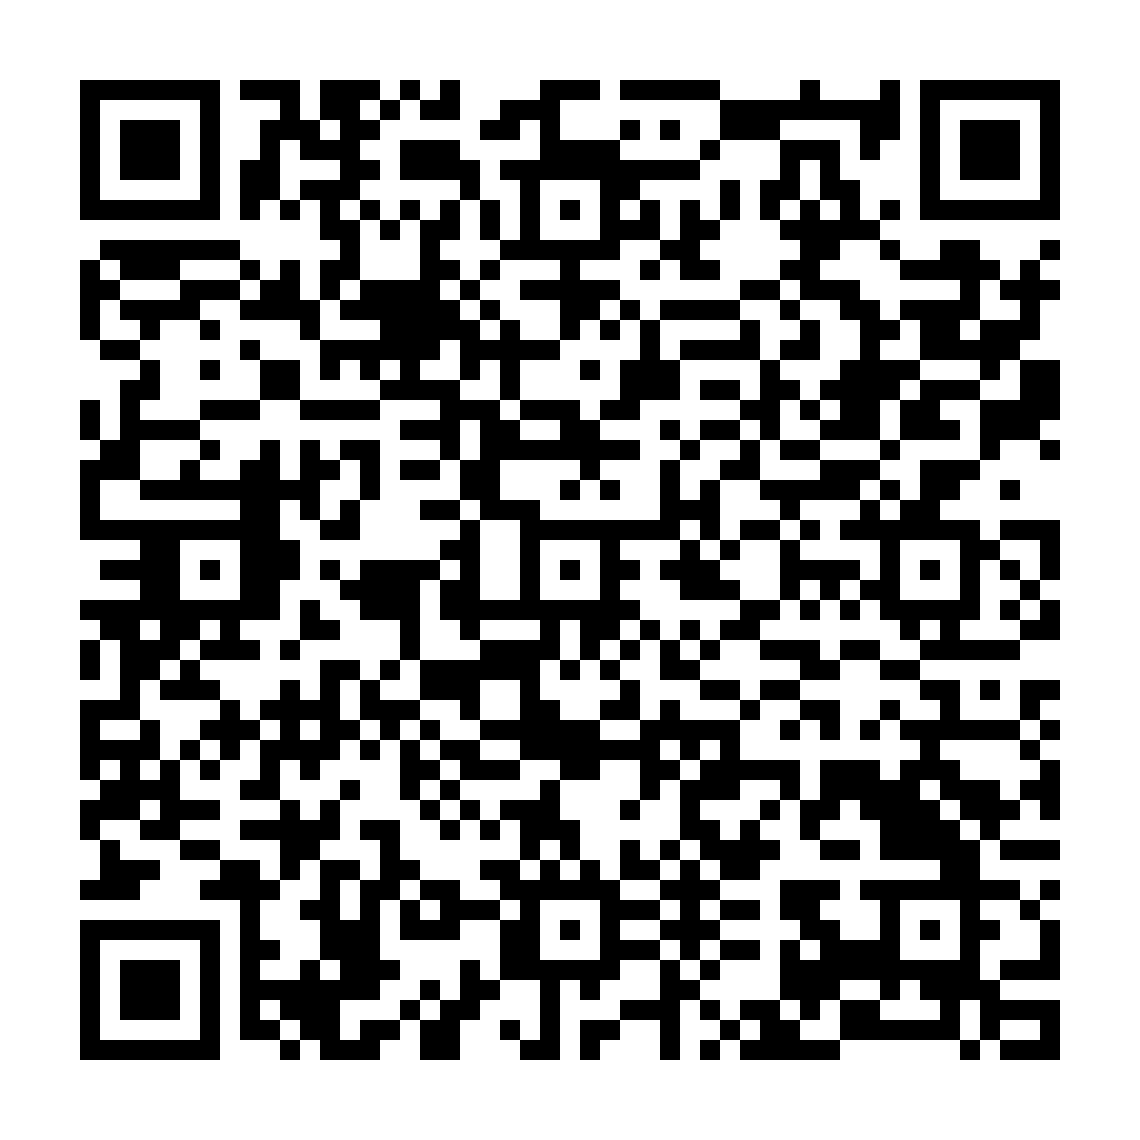
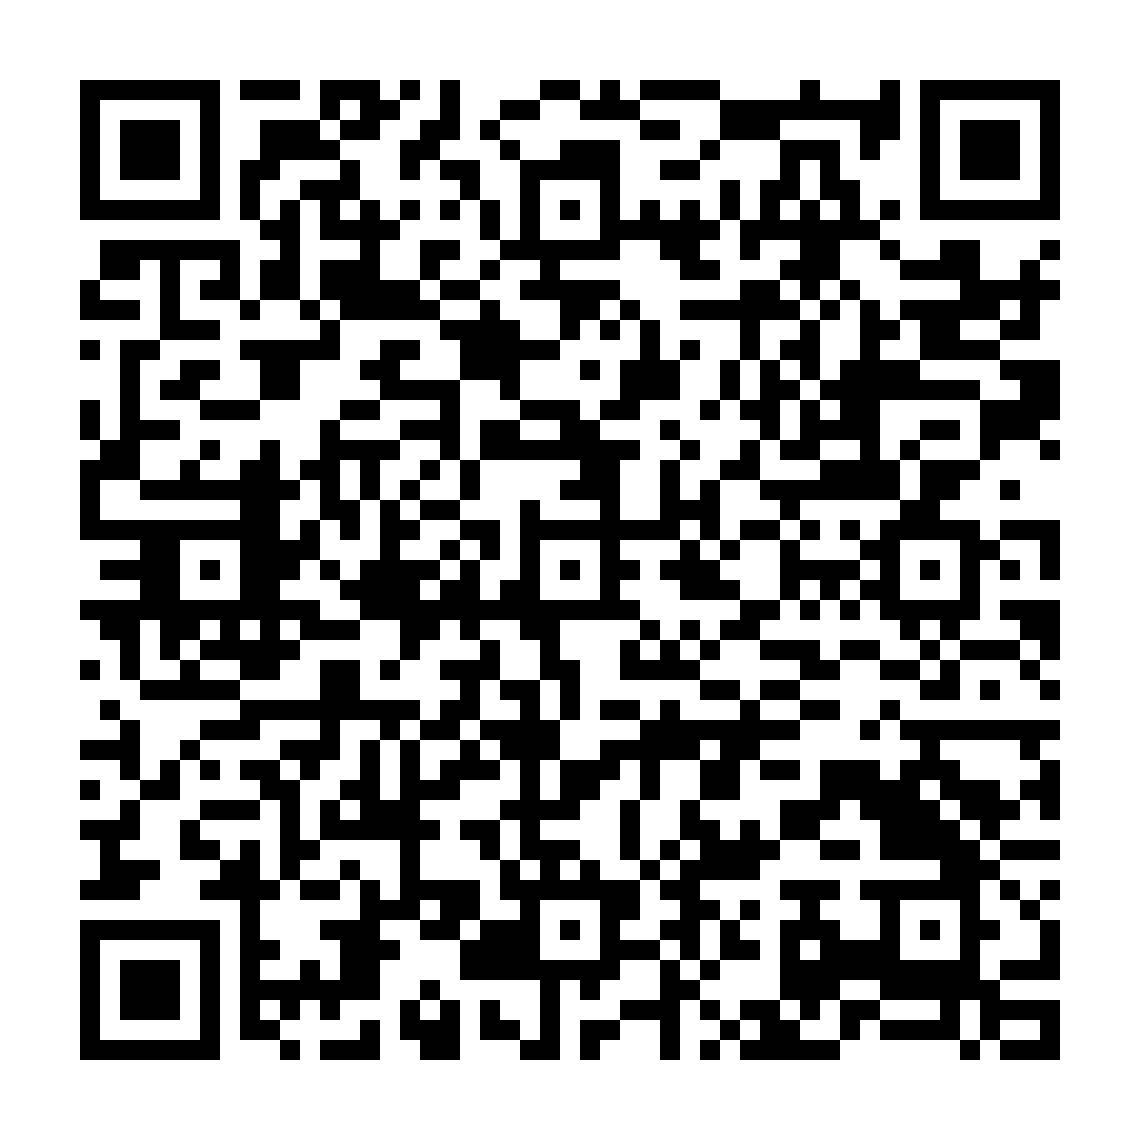
Arreglo login

diff --git a/Controllers/TokenQrsController.cs b/Controllers/TokenQrsController.cs
@@ -2,24 +2,21 @@
 using Helluz.Models;
 using Microsoft.AspNetCore.Authorization;
 using Microsoft.AspNetCore.Mvc;
-using Microsoft.AspNetCore.Mvc.Rendering;
 using Microsoft.EntityFrameworkCore;
 using QRCoder;
 using System;
-using System.Collections.Generic;
-using System.Drawing;
-using System.Drawing.Imaging;
+using System.IO;
 using System.Linq;
 using System.Threading.Tasks;
-using static QRCoder.PayloadGenerator;
 
 namespace Helluz.Controllers
 {
-    [Authorize(Roles = "administrador")]
+    [Authorize(Roles = "administrador,instructor")]
     public class TokenQrsController : Controller
     {
         private readonly MyContext _context;
         private readonly IWebHostEnvironment _env;
+
         public TokenQrsController(MyContext context, IWebHostEnvironment env)
         {
             _context = context;
@@ -27,9 +24,13 @@ namespace Helluz.Controllers
         }
 
         // GET: TokenQrs
-        // En el método Index de TokenQrs, verifica que el nuevo token aparezca
         public async Task<IActionResult> Index()
         {
+            if (!User.IsInRole("administrador") && !User.IsInRole("instructor"))
+            {
+                return Unauthorized();
+            }
+
             var tokens = await _context.TokenQrs
                 .OrderByDescending(t => t.FechaGeneracion)
                 .ToListAsync();
@@ -39,32 +40,29 @@ namespace Helluz.Controllers
         // GET: TokenQrs/Details/5
         public async Task<IActionResult> Details(int? id)
         {
-            if (id == null)
-            {
-                return NotFound();
-            }
+            if (id == null) return NotFound();
 
             var tokenQr = await _context.TokenQrs
                 .FirstOrDefaultAsync(m => m.IdToken == id);
-            if (tokenQr == null)
-            {
-                return NotFound();
-            }
+
+            if (tokenQr == null) return NotFound();
 
             return View(tokenQr);
         }
+
+        // GET: TokenQrs/ObtenerQr/5
         public IActionResult ObtenerQr(int id)
         {
             string qrPath = Path.Combine(_env.WebRootPath, "qr", $"qr_{id}.png");
 
             if (!System.IO.File.Exists(qrPath))
-            {
                 return NotFound();
-            }
 
             var image = System.IO.File.OpenRead(qrPath);
             return File(image, "image/png");
         }
+
+        // GET: TokenQrs/GenerarQr
         public async Task<IActionResult> GenerarQr()
         {
             // 1. Desactivar token activo anterior
@@ -86,16 +84,19 @@ namespace Helluz.Controllers
             _context.Add(nuevoToken);
             await _context.SaveChangesAsync();
 
-            // 3. ⭐ GENERAR URL COMPLETA (esto faltaba)
-            string urlAsistencia = Url.Action(
-                "RegistrarAsistencia",
+            // 3. Generar URL completa
+            string? urlAsistencia = Url.Action(
+                "RegistroAsistencia",
                 "Asistencia",
                 new { token = nuevoToken.Token },
                 protocol: Request.Scheme
             );
 
-            // DEBUG: Ver qué URL se genera
-            Console.WriteLine($"URL en QR: {urlAsistencia}");
+            if (string.IsNullOrEmpty(urlAsistencia))
+            {
+                TempData["Error"] = "No se pudo generar la URL para el QR.";
+                return RedirectToAction("Index");
+            }
 
             // 4. Crear directorio para QR
             string qrDirectory = Path.Combine(_env.WebRootPath, "qr");
@@ -104,51 +105,41 @@ namespace Helluz.Controllers
 
             string qrPath = Path.Combine(qrDirectory, $"qr_{nuevoToken.IdToken}.png");
 
-            // 5. Generar QR con la URL completa
+            // 5. Generar QR como PNG multiplataforma
             using (var qrGenerator = new QRCodeGenerator())
             {
-                var qrData = qrGenerator.CreateQrCode(urlAsistencia, QRCodeGenerator.ECCLevel.Q); // ← Cambio aquí
-                var qrCode = new QRCode(qrData);
-                using (var bitmap = qrCode.GetGraphic(20))
-                {
-                    bitmap.Save(qrPath, ImageFormat.Png);
-                }
+                var qrData = qrGenerator.CreateQrCode(urlAsistencia, QRCodeGenerator.ECCLevel.Q);
+                var qrCode = new PngByteQRCode(qrData);
+                byte[] qrBytes = qrCode.GetGraphic(20);
+
+                await System.IO.File.WriteAllBytesAsync(qrPath, qrBytes);
             }
 
+            TempData["Success"] = "QR generado correctamente.";
             return RedirectToAction("Index");
         }
 
         // GET: TokenQrs/Edit/5
         public async Task<IActionResult> Edit(int? id)
         {
-            if (id == null)
-            {
-                return NotFound();
-            }
+            if (id == null) return NotFound();
 
             var tokenQr = await _context.TokenQrs.FindAsync(id);
-            if (tokenQr == null)
-            {
-                return NotFound();
-            }
+            if (tokenQr == null) return NotFound();
+
             return View(tokenQr);
         }
 
         // POST: TokenQrs/Edit/5
-        // To protect from overposting attacks, enable the specific properties you want to bind to.
-        // For more details, see http://go.microsoft.com/fwlink/?LinkId=317598.
         [HttpPost]
         [ValidateAntiForgeryToken]
         public async Task<IActionResult> Edit(int id, [Bind("IdToken,Estado")] TokenQr tokenQr)
         {
-            if (id != tokenQr.IdToken)
-                return NotFound();
+            if (id != tokenQr.IdToken) return NotFound();
 
             var original = await _context.TokenQrs.AsNoTracking().FirstOrDefaultAsync(t => t.IdToken == id);
-            if (original == null)
-                return NotFound();
+            if (original == null) return NotFound();
 
-            // Mantener valores originales
             tokenQr.Token = original.Token;
             tokenQr.FechaGeneracion = original.FechaGeneracion;
 
@@ -161,31 +152,22 @@ namespace Helluz.Controllers
                 }
                 catch (DbUpdateConcurrencyException)
                 {
-                    if (!_context.TokenQrs.Any(e => e.IdToken == id))
-                        return NotFound();
-                    else
-                        throw;
+                    if (!_context.TokenQrs.Any(e => e.IdToken == id)) return NotFound();
+                    else throw;
                 }
                 return RedirectToAction(nameof(Index));
             }
             return View(tokenQr);
         }
 
-
         // GET: TokenQrs/Delete/5
         public async Task<IActionResult> Delete(int? id)
         {
-            if (id == null)
-            {
-                return NotFound();
-            }
+            if (id == null) return NotFound();
 
             var tokenQr = await _context.TokenQrs
                 .FirstOrDefaultAsync(m => m.IdToken == id);
-            if (tokenQr == null)
-            {
-                return NotFound();
-            }
+            if (tokenQr == null) return NotFound();
 
             return View(tokenQr);
         }
@@ -199,9 +181,9 @@ namespace Helluz.Controllers
             if (tokenQr != null)
             {
                 _context.TokenQrs.Remove(tokenQr);
+                await _context.SaveChangesAsync();
             }
 
-            await _context.SaveChangesAsync();
             return RedirectToAction(nameof(Index));
         }
 

diff --git a/Controllers/LoginController.cs b/Controllers/LoginController.cs
@@ -10,7 +10,7 @@ using System.Security.Claims;
 
 namespace Laboratorios.Controllers
 {
-    [AllowAnonymous] // ⭐ Permite acceso sin autenticación a este controlador
+    [AllowAnonymous] // Permite acceso sin autenticación a este controlador
     public class LoginController : Controller
     {
         private readonly MyContext _context;
@@ -30,21 +30,16 @@ namespace Laboratorios.Controllers
 
         public IActionResult Index()
         {
-            // ⭐ CRÍTICO: Si ya está autenticado, redirigir
-            if (User.Identity.IsAuthenticated)
+            // Si ya está autenticado, redirigir a Home
+            if (User.Identity != null && User.Identity.IsAuthenticated)
             {
-                if (User.IsInRole("administrador"))
-                {
-                    return RedirectToAction("Index", "Home");
-                }
-                else
-                {
-                    return RedirectToAction("Index", "Instructor");
-                }
+                return RedirectToAction("Index", "Home");
             }
 
             return View();
         }
+
+
 
         [HttpPost]
         [ValidateAntiForgeryToken] // ⭐ Seguridad adicional
@@ -88,10 +83,7 @@ namespace Laboratorios.Controllers
             _cache.Remove(cacheKey);
             await SetUserCookie(usuario);
 
-            if (usuario.Rol == Helluz.Dto.Roles.administrador)
-                return RedirectToAction("Index", "Home");
-            else
-                return RedirectToAction("Index", "Instructor");
+            return RedirectToAction("Index", "Home");
         }
 
         private async Task SetUserCookie(Usuario usuario)
@@ -100,7 +92,7 @@ namespace Laboratorios.Controllers
             {
                 new Claim(ClaimTypes.Name, usuario!.NombreUsuario!),
                 new Claim(ClaimTypes.NameIdentifier, usuario.IdUsuario.ToString()),
-                new Claim(ClaimTypes.Role, usuario.Rol!.ToString())
+                new Claim(ClaimTypes.Role, usuario.Rol.ToString())
             };
 
             var claimsIdentity = new ClaimsIdentity(claims, CookieAuthenticationDefaults.AuthenticationScheme);
@@ -143,7 +135,7 @@ namespace Laboratorios.Controllers
         [HttpGet]
         public IActionResult CheckSession()
         {
-            if (User.Identity.IsAuthenticated)
+            if (User.Identity != null && User.Identity.IsAuthenticated)
             {
                 return Ok();
             }

diff --git a/Controllers/AsistenciaController.cs b/Controllers/AsistenciaController.cs
@@ -1,14 +1,16 @@
 using Helluz.Contexto;
 using Helluz.Dto;
 using Helluz.Models;
+using Microsoft.AspNetCore.Authorization;
 using Microsoft.AspNetCore.Mvc;
 using Microsoft.EntityFrameworkCore;
 using System;
-using System.Threading.Tasks;
 using System.Linq;
+using System.Threading.Tasks;
 
 namespace Helluz.Controllers
 {
+    [AllowAnonymous]
     public class AsistenciaController : Controller
     {
         private readonly MyContext _context;

diff --git a/Controllers/InscripcionesController.cs b/Controllers/InscripcionesController.cs
@@ -37,6 +37,11 @@ namespace Helluz.Controllers
         // GET: Inscripciones
         public async Task<IActionResult> Index()
         {
+            if (!User.IsInRole("administrador") && !User.IsInRole("instructor"))
+            {
+                return Unauthorized();
+            }
+
             var inscripciones = await _context.Inscripcions
                 .Include(i => i.Alumno)
                 .Include(i => i.Membresia)

diff --git a/Controllers/HomeController.cs b/Controllers/HomeController.cs
@@ -25,6 +25,11 @@ namespace Helluz.Controllers
 
         public IActionResult Index()
         {
+            if (!User.IsInRole("administrador") && !User.IsInRole("instructor"))
+            {
+                return Unauthorized();
+            }
+
             var hoy = DateOnly.FromDateTime(DateTime.Today);
 
             var inicioMes = new DateOnly(DateTime.Today.Year, DateTime.Today.Month, 1);

diff --git a/Controllers/AlumnoesController.cs b/Controllers/AlumnoesController.cs
@@ -24,6 +24,11 @@ namespace Helluz.Controllers
         // GET: Alumnoes
         public async Task<IActionResult> Index()
         {
+            if (!User.IsInRole("administrador") && !User.IsInRole("instructor"))
+            {
+                return Unauthorized();
+            }
+
             return View(await _context.Alumnos.ToListAsync());
         }
 
